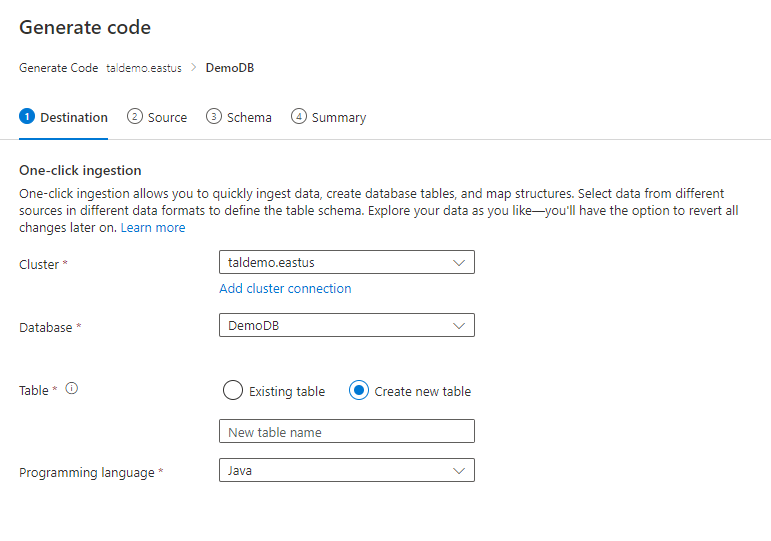
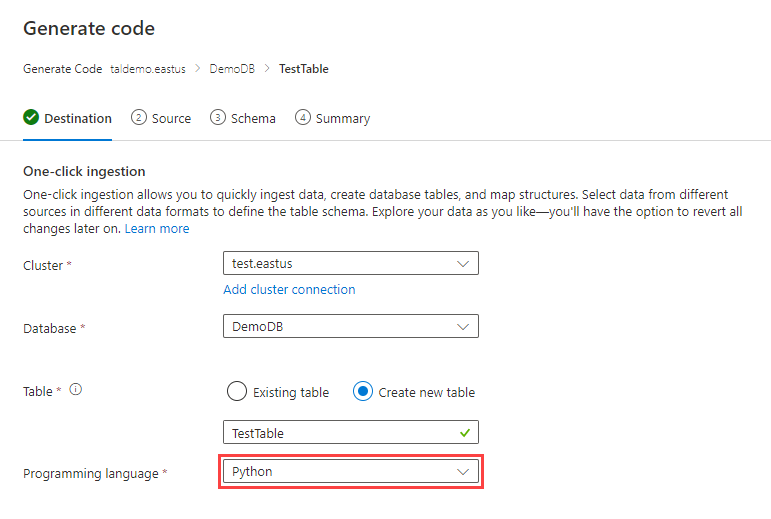
Docs review

diff --git a/data-explorer/sample-app-generator-one-click.md b/data-explorer/sample-app-generator-one-click.md
@@ -1,17 +1,20 @@
 ---
-title: Use one-click ingestion to ingest data into Azure Data Explorer
-description: Overview of ingesting (loading) data into Azure Data Explorer simply, using one-click ingestion.
-author: talzamir
-ms.author: -
-ms.reviewer: -
+title: Use one-click sample app generator to ingest and query data in Azure Data Explorer
+description: Overview of using the one-click sample app generator to create the code to ingest and query your data in your preferred programming language.
+services: data-explorer
+author: orspod
+ms.author: orspodek
+ms.reviewer: talzamir
 ms.service: data-explorer
 ms.topic: how-to
 ms.date: 12/15/2021
 ---
 
-# What is sample app generator?
+# Use the one-click sample app generator to create code to ingest and query your data
 
-One-click sample app generator allows to create a working sample app code tailored to your cluster and data in various languages and frameworks. The quick start application is a **self-contained and runnable** example app that demonstrates authenticating, connecting to, administering, ingesting data into and querying Azure Data Explorer using the pre-selected SDK. You can use it as a baseline to write your own first Kusto client application, altering the code as you go, or copy code sections out of it into your app. The app includes comments with tips on recommendations, coding best practices, links to reference materials and recommended TODO changes when adapting the code to your needs.
+The one-click sample app generator is a tool that allows you to create a working app to ingest and query your data in your preferred programming language. The generated code adds the relevant SDK frameworks and is tailored to your cluster and data. The app is a *self-contained*, *executable** example that demonstrates how to connect to a cluster using authentication, administer, and ingest and query data using the SDK.
+
+You can use these generated code as a baseline to write your own apps, altering the code as you go, or you can copy sections of code into your own apps. The code includes comments with tips, best practices, links to reference material, and recommended TODO changes when adapting the code to your needs.
 
 ## Prerequisites
 
@@ -38,7 +41,9 @@ The one-click sample app generator wizard guides you through the one-click inges
 
 ## One-click sample app generator wizard
 
-On the Destination tab you can select the desired SDK for your app.
+The one-click sample app generator wizard guides you through the one-click ingestion process.
+
+On the **Destination** tab, specify the destination cluster, database, and table and then select the programming language for your app.
 
 :::image type="content" source="media/one-click-sample-app-generator/sample-app-generator-destination-tab.png" alt-text="Sample app generator destination tab.":::
 
@@ -46,24 +51,27 @@ On the Destination tab you can select the desired SDK for your app.
 > This section describes the wizard in general. The options you select depend on what data format you are ingesting, what kind of data source you are ingesting from, and whether you are ingesting into a new or existing table.
 >
 > For sample scenarios, see:
+>
 > * Ingest into [a new table from a Blob storage in CSV format](one-click-ingestion-new-table.md)
-> * Ingest into an [existing table from a local file in JSON format](one-click-ingestion-existing-table.md) 
+> * Ingest into an [existing table from a local file in JSON format](one-click-ingestion-existing-table.md)
 
 The wizard guides you through the following options:
-   * Ingest into an [existing table](one-click-ingestion-existing-table.md)
-   * Ingest into [a new table](one-click-ingestion-new-table.md)
-   * Ingest data from:
-      * Blob storage
-      * [A local file](one-click-ingestion-existing-table.md)
+
+* Ingest into an [existing table](one-click-ingestion-existing-table.md)
+* Ingest into [a new table](one-click-ingestion-new-table.md)
+* Ingest data from:
+    * Blob storage
+    * [A local file](one-click-ingestion-existing-table.md)
 
 ### Schema mapping
 
 The service automatically generates schema and ingestion properties, which you can change. You can use an existing mapping structure or create a new one, depending on if you're ingesting to a new or existing table.
 
 In the **Schema** tab, do the following actions:
-   * Confirm the autogenerated compression type.
-   * Choose the [format of your data](#file-formats). Different formats will allow you to make further changes.
-   * Change mapping in the [Editor window](#editor-window).
+
+* Confirm the autogenerated compression type.
+* Choose the [format of your data](#file-formats). Different formats will allow you to make further changes.
+* Change mapping in the [Editor window](#editor-window).
 
 #### File formats
 
@@ -71,7 +79,7 @@ One-click ingestion supports ingesting from source data in all [data formats sup
 
 ### Editor window
 
-In the **Editor** window of the **Schema** tab, you can adjust data table columns as necessary. 
+In the **Editor** window of the **Schema** tab, you can adjust data table columns as necessary.
 
 [!INCLUDE [data-explorer-one-click-column-table](includes/data-explorer-one-click-column-table.md)]
 
@@ -83,6 +91,7 @@ In the **Editor** window of the **Schema** tab, you can adjust data table column
 Some data format mappings (Parquet, JSON, and Avro) support simple ingest-time transformations. To apply mapping transformations, create or update a column in the [Editor window](#editor-window).
 
 Mapping transformations can be performed on a column of **Type** string or datetime, with the **Source** having data type int or long. Supported mapping transformations are:
+
 * DateTimeFromUnixSeconds
 * DateTimeFromUnixMilliseconds
 * DateTimeFromUnixMicroseconds
@@ -90,13 +99,13 @@ Mapping transformations can be performed on a column of **Type** string or datet
 
 For more information, see [mapping transformations](#mapping-transformations).
 
-### Code generator
+### Code generation
 
-Once you have completed schema mapping and column manipulations, the sample app generator wizard will start the code generation process. 
- 
+Once you have completed schema mapping and column manipulations, the sample app generator wizard will start the code generation process.
+
 ### Initial data exploration
-   
-After code generation, the sample app project will be available for download (as a ZIP file). Detailed instructions for running the project with the selected SDK will be shown both on the summary tab and inside the sample project file. In addition the wizard gives you options to use **[Quick commands](one-click-ingestion-existing-table.md#explore-quick-queries-and-tools)** for initial exploration of your data
+
+After code generation, the sample app project will be available for download as a ZIP file. Detailed instructions for running the project with the selected SDK will be shown both on the summary tab and inside the sample project file. In addition, the wizard gives you options to use **[Quick commands](one-click-ingestion-existing-table.md#explore-quick-queries-and-tools)** for initial exploration of your data.
 
 >[!NOTE]
-> It is possible that the Quick commands may need the generated project to run at least once in order to run successfully (i.e. the project creates a new table).
+> If you specified a new table for the destination, for the Quick commands to work you must run the generated app at least once to ensure that the new table is created.
